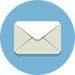
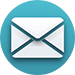
Updated account images

diff --git a/projects/website/src/app/pages/account/account.component.html b/projects/website/src/app/pages/account/account.component.html
@@ -15,7 +15,6 @@
                     <a routerLink="orders">
                         <div class="img-container">
                             <img src="assets/orders.png">
-                            <img src="assets/orders-scaled.png">
                         </div>
                         Orders
                     </a>
@@ -24,7 +23,6 @@
                     <a routerLink="profile">
                         <div class="img-container">
                             <img src="assets/profile.png">
-                            <img src="assets/profile-scaled.png">
                         </div>
                         Profile
                     </a>
@@ -33,7 +31,6 @@
                     <a routerLink="lists">
                         <div class="img-container">
                             <img src="assets/lists.png">
-                            <img src="assets/lists-scaled.png">
                         </div>
                         Lists
                     </a>
@@ -42,7 +39,6 @@
                     <a routerLink="email-preferences">
                         <div class="img-container">
                             <img src="assets/email_preferences.png">
-                            <img src="assets/email_preferences-scaled.png">
                         </div>
                         Email Preferences
                     </a>
@@ -51,7 +47,6 @@
                     <a style="cursor: pointer;" tabindex="0" (click)="onDeleteAccount()">
                         <div class="img-container">
                             <img src="assets/delete_account.png">
-                            <img src="assets/delete_account-scaled.png">
                         </div>
                         Delete Account
                     </a>
@@ -68,7 +63,6 @@
                     <a href="https://www.clkbank.com/" target="_blank">
                         <div class="img-container">
                             <img src="assets/order_support.png">
-                            <img src="assets/order_support-scaled.png">
                         </div>
                         Order Support
                     </a>
@@ -77,7 +71,6 @@
                     <a style="cursor: pointer;" tabindex="0" (click)="onContactUsClick()">
                         <div class="img-container">
                             <img src="assets/contact_us.png">
-                            <img src="assets/contact_us-scaled.png">
                         </div>
                         Contact Us
                     </a>

diff --git a/projects/website/src/app/pages/account/account.component.scss b/projects/website/src/app/pages/account/account.component.scss
@@ -35,19 +35,6 @@ a {
     outline: none;
 
 
-    img:nth-child(1) {
-        display: block;
-    }
-
-    img:nth-child(2) {
-        position: relative;
-        display: none;
-        filter: brightness(1.08);
-    }
-
-
-
-
     &:hover:not(:focus-visible) {
         filter: brightness(1.08);
         color: white;
@@ -61,14 +48,6 @@ a {
         .icons-container {
             width: 81px;
             height: 81px;
-        }
-
-        img:nth-child(1) {
-            display: none;
-        }
-
-        img:nth-child(2) {
-            display: block;
         }
     }
 }
